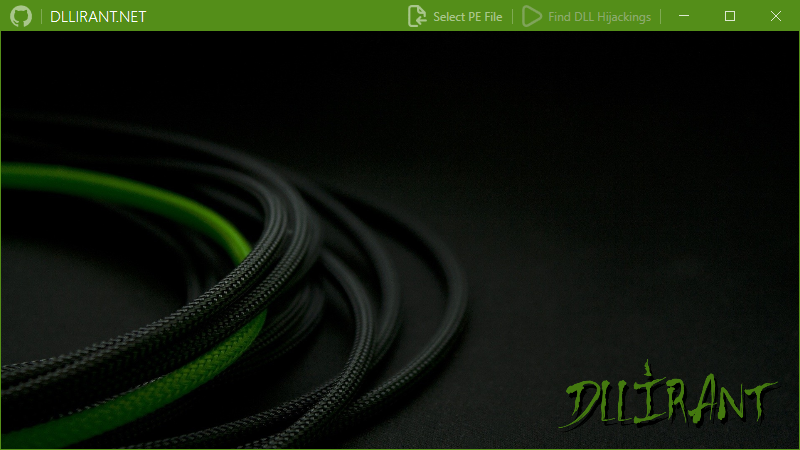
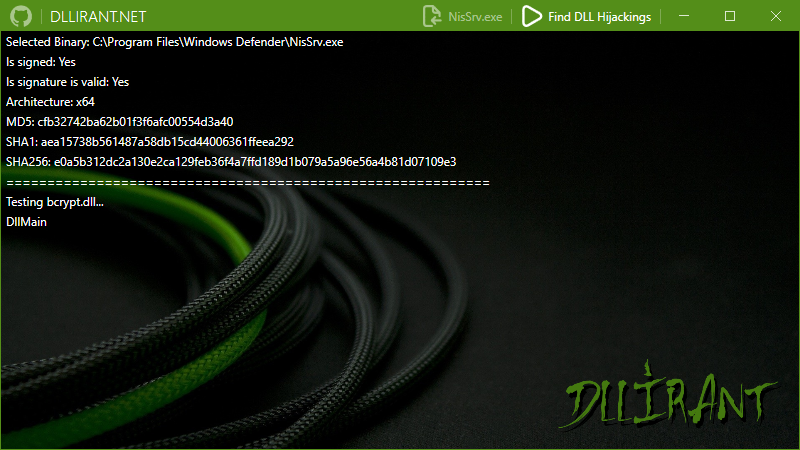
Updated readme and screenshots

Changed region(s): [[0.0, 0.0622, 0.5625, 0.3733], [0.5, 0.0, 0.8125, 0.0622], [0.0, 0.4356, 0.125, 0.5289]]

diff --git a/README.md b/README.md
@@ -2,6 +2,7 @@
 DLLirant is a tool to automatize the DLL Hijacking and DLL Proxying researches on a specified binary.
 
 ![alt text](https://raw.githubusercontent.com/Sh0ckFR/DLLirant/main/screenshot.png)
+![alt text](https://raw.githubusercontent.com/Sh0ckFR/DLLirant/main/screenshot2.png)
 
 ## Live Demo
 
@@ -11,13 +12,21 @@ DLLirant is a tool to automatize the DLL Hijacking and DLL Proxying researches o
 
 * Install LLVM for Windows: https://llvm.org/builds/
 * Do not forget to check the "Add LLVM to the system PATH for current user" during the installation.
-* Install pefile from pip:
+* Install pefile from pip (only for the old python version):
 
 ```
 pip3 install pefile
 ```
 
-## How to use
+## How to use (.NET version)
+
+Left click, left click and left click again.
+
+Just in case, if you want to use the DLL Proxying feature, do not forget to use names like "proxy.dll" in the textbox or absolute paths like "C:\\Windows\\System32\\yourdll.dll".
+
+And you have only 10 seconds to click on each error dialogs generated by your targeted application (I must fix it later).
+
+## How to use (Python version)
 
 Use the `cd` command to your DLLirant directory and to test a binary:
 
@@ -31,7 +40,7 @@ If you want to create a proxy dll, you can use the -p option on the original vul
 python3 DLLirant.py -p "C:\THEFULLPATH\VulnerableDLL.dll"
 ```
 
-## How it works
+## How it works (Python version but .NET is similar)
 
 The script will create an output directory in the same directory of DLLirant.py, copy the targeted binary to the output directory.
 
